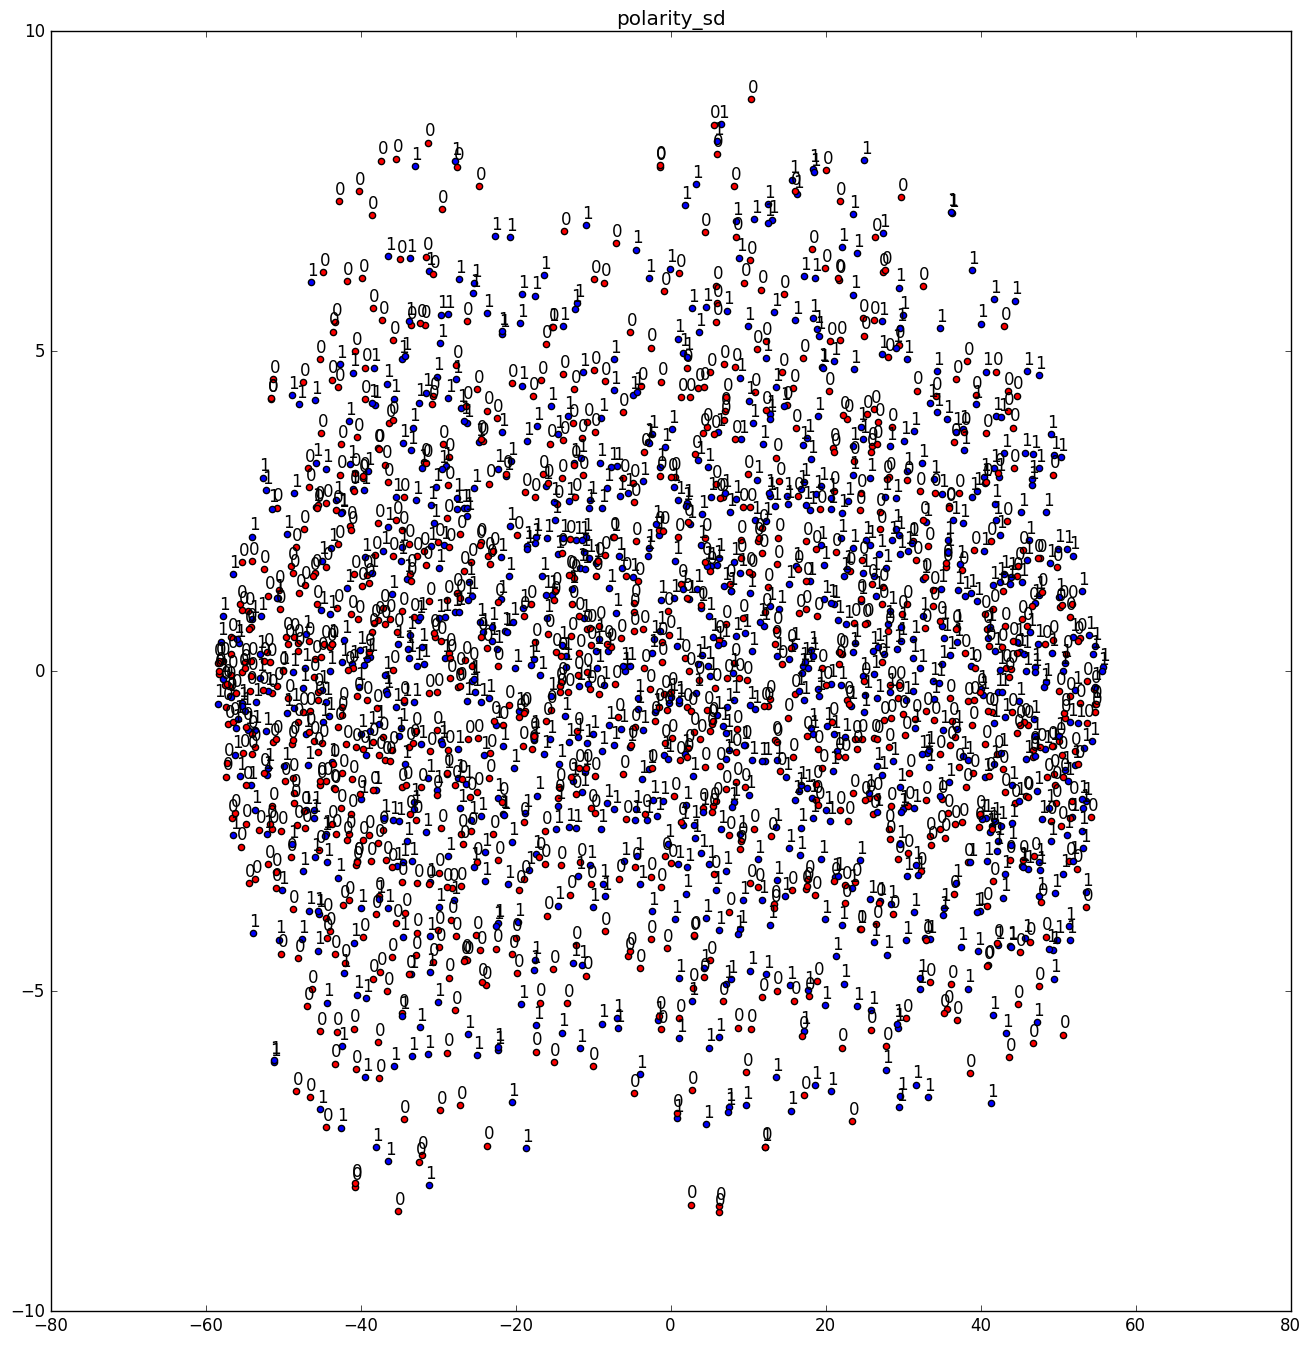
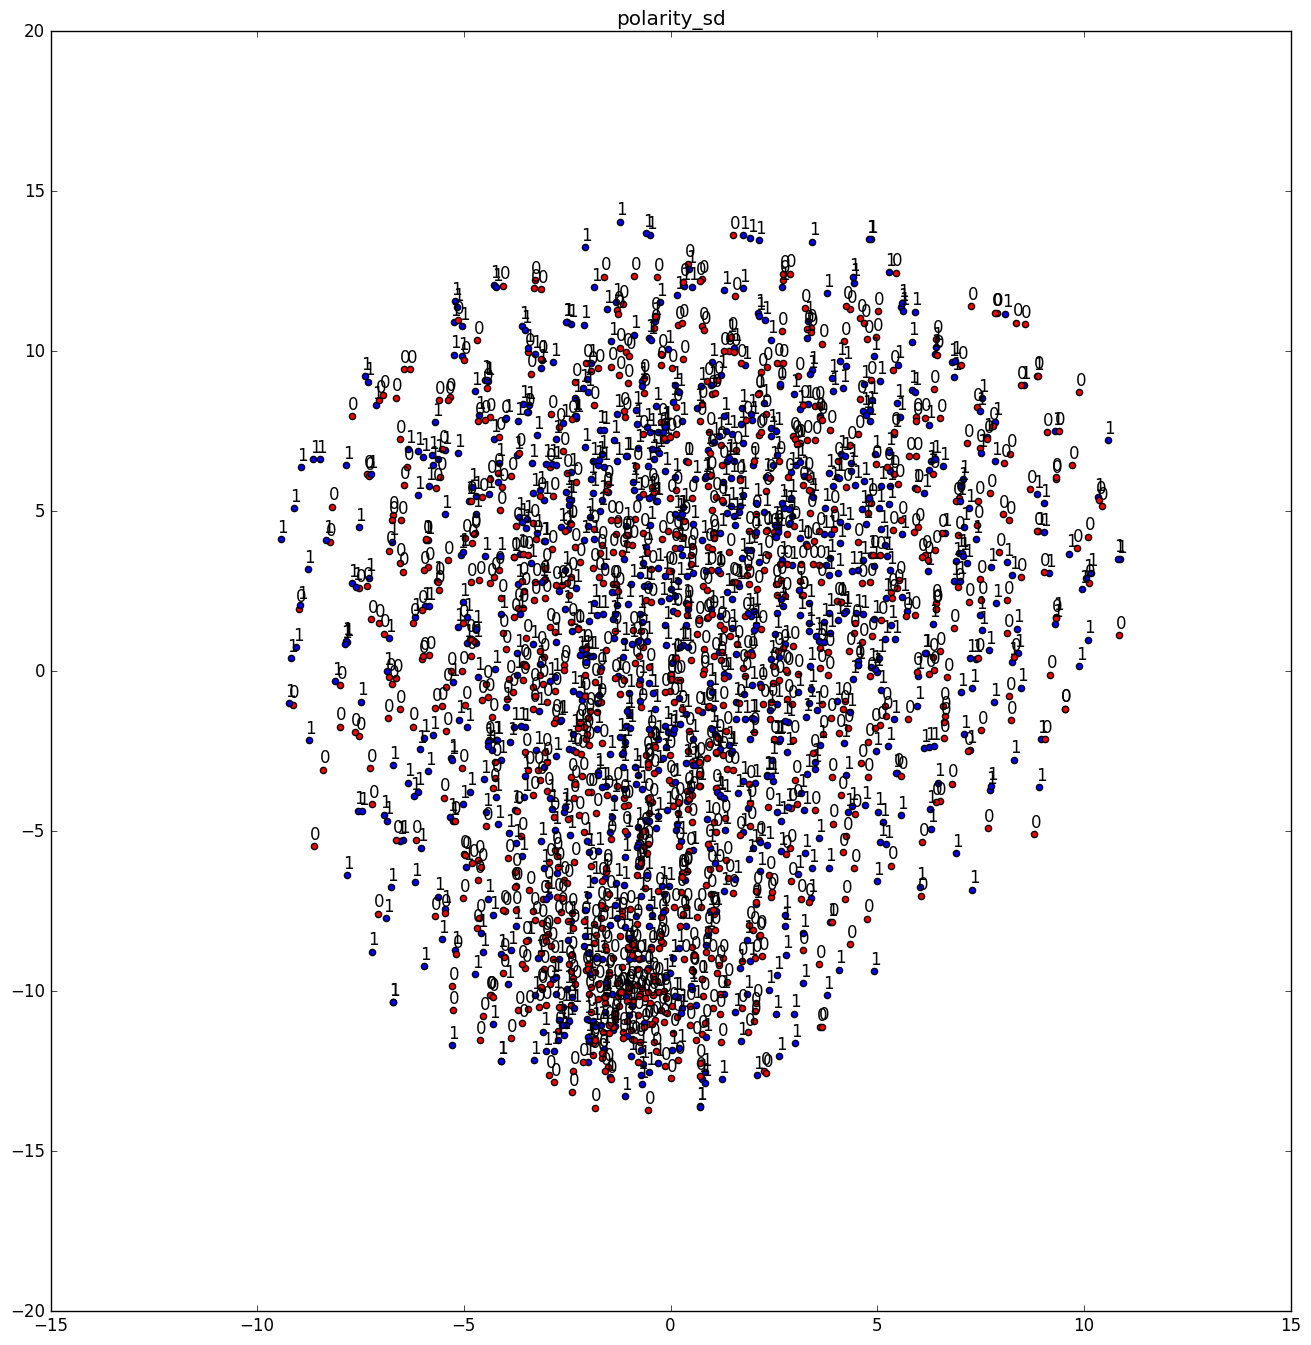
polarity new tsne plots

diff --git a/visualization.py b/visualization.py
@@ -10,6 +10,7 @@ def read_args():
     parser.add_argument('--view', type=str, choices=["tsne", "pca"], help='visualization method', required=True)   
     parser.add_argument('--train', type=str, help='path for train file', required=True)   
     parser.add_argument('--test', type=str, help='path for test file', required=True)   
+    parser.add_argument('--dataset', type=str, help='path for test file', required=True)   
     return parser.parse_args()
 
 def read_features(train_path, test_path, i_x, i_y):
@@ -63,15 +64,15 @@ def main():
     args = read_args()
     
     x_train, y_train, x_test, y_test = read_features(args.train, args.test, 1, -1)
-    plot_tsne(x_train+x_test, y_train+y_test, "polarity_mean_median_sd")
+    plot_tsne(x_train+x_test, y_train+y_test, args.dataset+"_mean_median_sd")
     x_train, y_train, x_test, y_test = read_features(args.train, args.test, 1, 51)
-    plot_tsne(x_train+x_test, y_train+y_test, "polarity_mean")
+    plot_tsne(x_train+x_test, y_train+y_test, args.dataset+"_mean")
     x_train, y_train, x_test, y_test = read_features(args.train, args.test, 51, 101)
-    plot_tsne(x_train+x_test, y_train+y_test, "polarity_median")
+    plot_tsne(x_train+x_test, y_train+y_test, args.dataset+"_median")
     x_train, y_train, x_test, y_test = read_features(args.train, args.test, 101, -1)
-    plot_tsne(x_train+x_test, y_train+y_test, "polarity_sd")
+    plot_tsne(x_train+x_test, y_train+y_test, args.dataset+"_sd")
     x_train, y_train, x_test, y_test = read_features(args.train, args.test, 1, 101)
-    plot_tsne(x_train+x_test, y_train+y_test, "polarity_mean_median")
+    plot_tsne(x_train+x_test, y_train+y_test, args.dataset+"_mean_median")
 
 if __name__ == "__main__":
     main()
